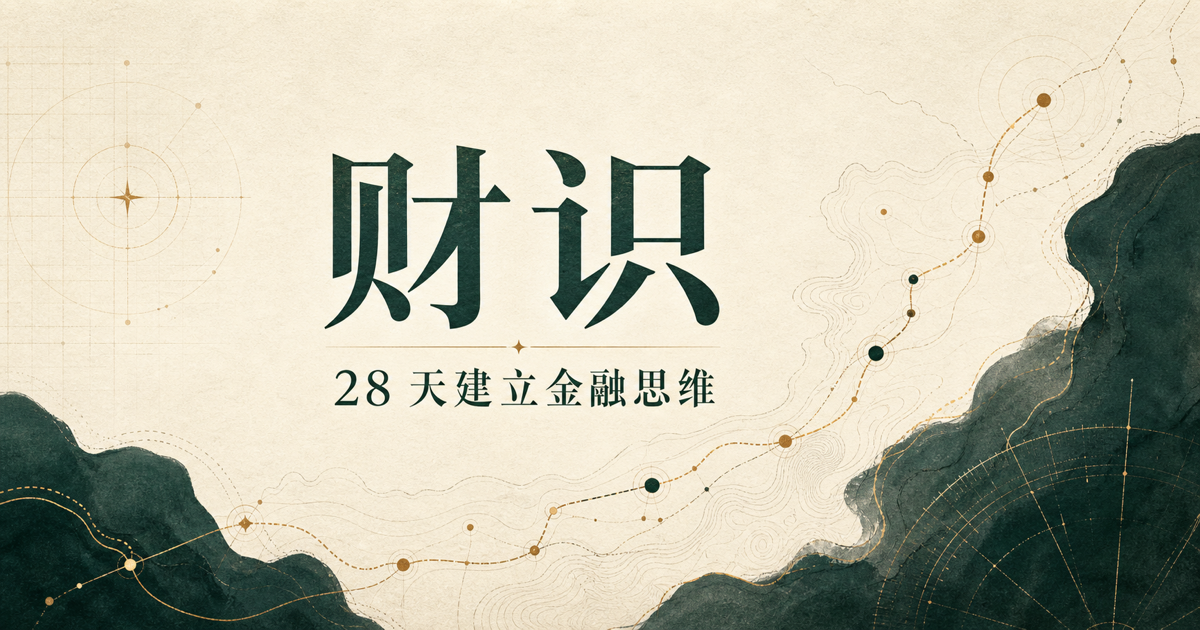
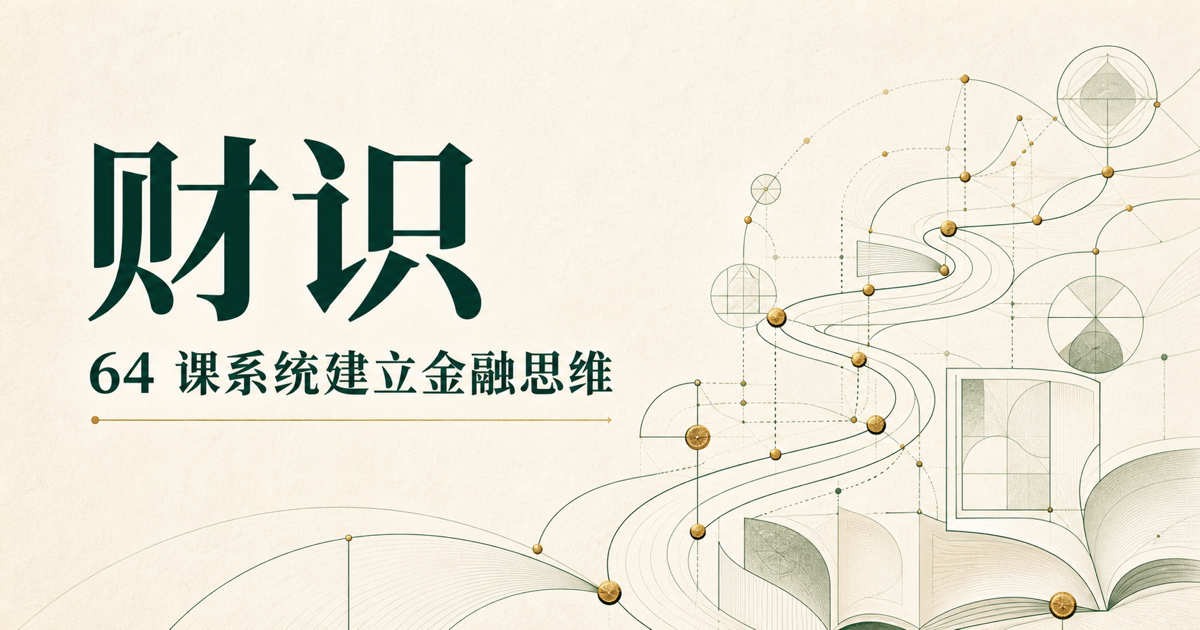
Expand finance curriculum to 64 lessons

diff --git a/app/page.tsx b/app/page.tsx
@@ -21,6 +21,10 @@ const modules = [
   { id: 2, index: '02', title: '风险与资产', summary: '看懂工具背后的收益来源', lessons: '8 课', tone: 'green' },
   { id: 3, index: '03', title: '公司与估值', summary: '从报表走向企业真实价值', lessons: '7 课', tone: 'blue' },
   { id: 4, index: '04', title: '市场与周期', summary: '把个人决策放进经济全景', lessons: '7 课', tone: 'coral' },
+  { id: 5, index: '05', title: '个人财务规划', summary: '把目标变成可执行的资金计划', lessons: '9 课', tone: 'violet' },
+  { id: 6, index: '06', title: '投资分析方法', summary: '用证据研究资产而不是追热点', lessons: '9 课', tone: 'sage' },
+  { id: 7, index: '07', title: '组合管理实战', summary: '建立能长期坚持的投资系统', lessons: '9 课', tone: 'gold' },
+  { id: 8, index: '08', title: '全球金融进阶', summary: '理解复杂工具与系统性风险', lessons: '9 课', tone: 'rose' },
 ];
 
 const lessons: Lesson[] = [
@@ -55,6 +59,46 @@ const lessons: Lesson[] = [
   { id: 26, moduleId: 4, title: '汇率与全球市场', minutes: 17, question: '本币升贬值，为什么有人欢喜有人愁？', summary: '汇率是一种货币相对另一种货币的价格，影响贸易、通胀和跨境资产回报。', key: '本币投资者海外回报 = 资产回报 + 汇率变化影响', points: ['本币贬值提高进口成本', '出口企业也受成本与定价权影响', '海外投资同时承担资产和汇率风险'], example: '海外资产上涨 5%，但投资期间外币相对本币贬值 8%，换回本币后仍可能亏损。', exercise: '持有海外资产是否天然就是分散？', answer: '不一定，还要看底层行业、地区集中度和汇率敞口。' },
   { id: 27, moduleId: 4, title: '资产配置', minutes: 20, question: '为什么组合结构比单个产品更重要？', summary: '资产配置把目标期限、风险承受能力和不同资产特征连接起来。', key: '先定目标与风险预算，再选工具', points: ['短中长期目标应分账户管理', '配置需要定期再平衡', '最佳组合是你能长期坚持的组合'], example: '市场上涨后股票占比从 60% 升到 75%，再平衡会卖出部分股票并补充低配资产。', exercise: '再平衡的主要目的是什么？', answer: '让组合回到既定风险水平，而不是预测下一个赢家。' },
   { id: 28, moduleId: 4, title: '个人投资原则', minutes: 20, question: '如何把知识变成一套不会轻易动摇的规则？', summary: '写下目标、边界和复盘机制，能减少市场情绪对长期计划的破坏。', key: '目标 → 期限 → 风险 → 配置 → 执行 → 复盘', points: ['明确不做什么和何时调整', '自动化储蓄降低决策成本', '用过程指标评估自己，不以短期涨跌论成败'], example: '个人投资政策可以写明：应急金目标、股票上限、再平衡阈值和禁止杠杆。', exercise: '完成课程后最重要的下一步是什么？', answer: '写一页个人财务与投资原则，并用小额、低成本、可持续的方式开始执行。' },
+
+  { id: 29, moduleId: 5, title: '目标与净资产', minutes: 17, question: '怎样把“想变富”变成可计算的目标？', summary: '财务规划从明确目标、时间和金额开始，再用净资产表观察当前位置。', key: '净资产 = 总资产 − 总负债', points: ['目标要同时写明金额与日期', '资产按可变现价值而非买入价记录', '净资产趋势比单月收入更能反映积累'], example: '家庭有现金 10 万、投资 20 万、房产净值 80 万和贷款 50 万，净资产为 60 万。', exercise: '总资产 120 万、总负债 75 万，净资产是多少？', answer: '45 万元。净资产不是现金余额，而是全部资产扣除全部负债后的结果。' },
+  { id: 30, moduleId: 5, title: '分账户预算', minutes: 16, question: '预算为什么常常坚持不到三个月？', summary: '有效预算不要求记住每一笔，而是提前为必要支出、目标和自由消费分配边界。', key: '收入 = 必要支出 + 目标储蓄 + 自由支出', points: ['按用途分账户降低意志力消耗', '先储蓄再消费比月底看余额更可靠', '年度大额支出应按月预提'], example: '每年 12,000 元保险费可按月预留 1,000 元，缴费月就不会打乱日常现金流。', exercise: '月收入 18,000 元，目标储蓄 25%，应先转入目标账户多少？', answer: '4,500 元。剩余 13,500 元再分配给必要与自由支出。' },
+  { id: 31, moduleId: 5, title: '信用与借款成本', minutes: 18, question: '分期月费率很低，为什么总成本仍可能很高？', summary: '比较借款不能只看月费率或每期金额，应统一换算为实际年化成本并计入全部费用。', key: '借款总成本 = 利息 + 手续费 + 保险费 + 机会成本', points: ['月费率不能直接代表年化利率', '等额分期本金逐月减少', '逾期记录会影响未来融资能力'], example: '借 12,000 元分 12 期、每月手续费 60 元，总费用 720 元，但实际年化成本高于简单的 6%。', exercise: '比较两笔贷款时，最少要统一哪些条件？', answer: '统一本金、期限、还款方式，并比较包含全部费用的实际年化成本。' },
+  { id: 32, moduleId: 5, title: '债务清偿策略', minutes: 17, question: '多笔欠款应该先还哪一笔？', summary: '高利率优先法节省总利息，小余额优先法更容易获得心理反馈；关键是停止新增高息债务。', key: '数学最优：优先偿还实际利率最高的债务', points: ['保留所有债务的最低还款', '额外现金集中攻击一笔债务', '提前还款前检查违约金和流动性'], example: '信用卡年化 18%、消费贷 10%、房贷 4%，通常先清信用卡最节省利息。', exercise: '若提前还清 12% 债务会耗尽应急金，应该怎么做？', answer: '通常先保留最低安全垫，再加速还债，避免一次意外迫使你重新借高息债。' },
+  { id: 33, moduleId: 5, title: '租房还是买房', minutes: 20, question: '买房一定比租房更划算吗？', summary: '住房决策同时是消费、融资和资产配置问题，不能只比较月租与月供。', key: '持有成本 = 利息 + 税费 + 维护 + 机会成本 − 预期增值', points: ['首付占用资金有机会成本', '交易成本使短期持有不利', '稳定性与迁移自由也是实际价值'], example: '月供 8,000 元中可能只有一部分归还本金，其余利息、物业和维护不能简单视为储蓄。', exercise: '预计两年后换城市，买房时最应警惕什么？', answer: '高额交易成本、价格波动和变现时间，短持有期可能无法摊薄这些成本。' },
+  { id: 34, moduleId: 5, title: '房贷与提前还款', minutes: 19, question: '有闲钱时，提前还房贷还是继续投资？', summary: '提前还款相当于获得接近贷款利率的确定性节省，但会减少流动性和投资机会。', key: '比较：贷款税后成本、投资预期回报、风险与流动性', points: ['等额本金与等额本息现金流不同', '不要用高风险预期收益对比确定利息', '提前还款后资金通常难以取回'], example: '贷款成本 4% 而可获得的无风险税后收益仅 2%，提前还款在纯财务上更有吸引力。', exercise: '为什么不能因为股票长期平均收益高于房贷利率，就必然选择投资？', answer: '股票回报不确定且路径波动，房贷利息是合同成本，两者风险属性不同。' },
+  { id: 35, moduleId: 5, title: '家庭保障缺口', minutes: 18, question: '保额应该由产品推荐决定吗？', summary: '保障规划应从家庭在重大事件后的资金缺口反推，而不是从可购买产品倒推。', key: '保障缺口 = 未来责任 + 债务 − 可用资产 − 既有保障', points: ['先覆盖家庭无法自行承担的损失', '收入责任变化后应重新评估保额', '保险不能替代应急金和长期储蓄'], example: '主要收入者承担 80 万房贷和子女教育责任，寿险保额应与这些缺口相关。', exercise: '孩子成年、房贷还清后，寿险需求通常如何变化？', answer: '通常下降，因为家庭未来责任和债务缺口减少，但仍要结合配偶养老等责任。' },
+  { id: 36, moduleId: 5, title: '养老目标测算', minutes: 20, question: '退休需要多少钱，为什么不能只猜一个总数？', summary: '养老规划要把退休支出、年限、通胀、收益和其他收入来源放进同一模型。', key: '退休缺口 = 预计支出现值 − 养老金等收入现值', points: ['用今天购买力估计退休支出', '区分积累期与提取期收益假设', '寿命与医疗支出要留安全边际'], example: '今天每月需要 8,000 元，若长期通胀 2.5%，20 年后同等生活约需 13,100 元。', exercise: '养老测算中为什么要使用实际收益率？', answer: '因为目标是维持购买力，实际收益率能同时考虑投资增长与通胀侵蚀。' },
+  { id: 37, moduleId: 5, title: '税务意识与年度复盘', minutes: 18, question: '税费为什么会悄悄改变长期回报？', summary: '税务规则因地区和账户而异，但每个决策都应比较税后结果，并至少每年复盘一次。', key: '税后回报 = 税前回报 − 税费 − 交易成本', points: ['先确认适用地区和账户规则', '频繁交易可能增加税费与成本', '年度复盘关注目标偏差而非短期排名'], example: '两项投资税前收益都为 6%，若一项税费更高，其复利终值会逐年落后。', exercise: '年度财务复盘最少应检查哪四项？', answer: '净资产、现金流、保障缺口和目标进度，并记录下一年度需要调整的行动。' },
+
+  { id: 38, moduleId: 6, title: '回报与基准', minutes: 18, question: '赚了 10%，为什么可能仍表现不佳？', summary: '投资结果必须与时间、风险和适当基准比较，孤立收益率无法说明决策质量。', key: '超额回报 = 组合回报 − 可比基准回报', points: ['基准应匹配资产类别与风险', '年化回报用于比较不同期限', '高回报若来自高杠杆未必更优'], example: '全球股票上涨 18% 的一年，你的同类基金收益 10%，绝对赚钱但相对基准落后。', exercise: '债券基金适合用科技股指数作基准吗？', answer: '不适合，两者风险来源不同，基准必须能代表可投资范围和风险特征。' },
+  { id: 39, moduleId: 6, title: '市值与股本结构', minutes: 17, question: '股价低的公司，真的更便宜吗？', summary: '单股价格没有可比性，必须结合总股本、市值、净债务和潜在稀释理解企业价格。', key: '市值 = 股价 × 总股本', points: ['拆股会改变股价但不创造价值', '期权与可转债可能稀释权益', '企业价值还需考虑净债务'], example: 'A 股每股 10 元有 10 亿股，市值 100 亿元；B 股每股 100 元有 1,000 万股，市值仅 10 亿元。', exercise: '公司一拆十后股价降为原来的十分之一，是否突然便宜了？', answer: '没有，总股本扩大十倍，市值和每位股东的持有比例原则上不变。' },
+  { id: 40, moduleId: 6, title: '相对估值', minutes: 19, question: '市盈率低，就一定低估吗？', summary: '估值倍数把价格与利润、收入或账面价值比较，但只有在业务、增长和风险可比时才有意义。', key: '市盈率 = 市值 ÷ 归属股东净利润', points: ['周期高点利润会让市盈率虚低', '亏损企业市盈率可能失效', '倍数差异需要经营原因解释'], example: '高负债周期公司市盈率 6 倍，稳定消费公司 20 倍，差异可能反映盈利持续性和风险。', exercise: '两家公司市盈率不同，比较前至少还要看什么？', answer: '增长、利润质量、资本结构、周期位置和会计口径。' },
+  { id: 41, moduleId: 6, title: '现金流折现', minutes: 22, question: '怎样把未来十年的经营转成今天的价值？', summary: '现金流折现法预测未来可分配现金，再按风险要求折现，是估值的基本逻辑。', key: '现值 = Σ 未来现金流 ÷（1 + 折现率）ᵗ', points: ['预测收入不等于预测自由现金流', '终值常占估值较大比例', '折现率和增长率必须做敏感性分析'], example: '同样每年 100 万元现金流，折现率从 8% 提高到 10%，今天的估值会明显下降。', exercise: 'DCF 结果为何应呈现区间而不是单点？', answer: '未来现金流、终值和折现率都不确定，小幅假设变化可能显著改变结果。' },
+  { id: 42, moduleId: 6, title: '债券定价与久期', minutes: 21, question: '怎样估算利率变化对债券的冲击？', summary: '久期近似衡量债券价格对收益率变化的敏感度，期限越长、票息越低通常久期越高。', key: '价格变化约 ≈ −久期 × 收益率变化', points: ['久期是敏感度而非单纯剩余期限', '凸性使大幅变化时线性估算有误差', '信用利差变化也会影响价格'], example: '久期 6 年的债券，收益率上升 1 个百分点，价格可能约下跌 6%。', exercise: '降息预期下，高久期债券一定更安全吗？', answer: '不一定。若利率反向上升或信用恶化，高久期债券损失也更大。' },
+  { id: 43, moduleId: 6, title: '基金尽调', minutes: 19, question: '基金排行榜为什么不是购买清单？', summary: '研究基金要看策略、底层持仓、费用、规模、跟踪质量与管理机制，而不只看近期收益。', key: '投资前先回答：持有什么、为何赚钱、何时失效、成本多少', points: ['同名基金的底层资产可能不同', '历史冠军常伴随风格集中', '规模过大可能改变策略执行'], example: '小盘策略规模快速膨胀后，可能因交易冲击和容量限制难以复制过去表现。', exercise: '指数基金之间比较，哪几个指标最关键？', answer: '跟踪标的、总费用、跟踪误差、流动性、税务与申赎机制。' },
+  { id: 44, moduleId: 6, title: '因子投资', minutes: 20, question: '价值、质量和动量因子在赚什么钱？', summary: '因子是跨许多资产可观察的共同特征，其溢价可能来自风险补偿或行为偏差。', key: '因子收益并非稳定利息，而是可能长期失效的风险溢价', points: ['价值因子偏好价格相对基本面较低的资产', '质量因子关注盈利与财务稳健', '因子拥挤会压低未来回报'], example: '价值风格可能连续多年落后市场，投资者若中途放弃就无法获得长期潜在溢价。', exercise: '同时买多只价值基金能否自动实现多因子分散？', answer: '不能，它们可能暴露于相同因子，需要检查底层持仓和风格相关性。' },
+  { id: 45, moduleId: 6, title: '图表分析的边界', minutes: 16, question: '一张价格图能告诉你未来吗？', summary: '价格和成交量能描述市场行为，但形态容易被事后解释，策略必须经过样本外与成本检验。', key: '可交易优势 = 预测能力 − 交易成本 − 过拟合损失', points: ['相关图形不等于因果关系', '规则越复杂越容易过拟合', '回测应避免未来数据和幸存者偏差'], example: '在历史数据上反复调整均线参数，总能找到漂亮结果，但新时期可能立即失效。', exercise: '判断回测可靠性至少要检查什么？', answer: '样本外表现、交易成本、数据质量、参数稳定性和不同市场阶段。' },
+  { id: 46, moduleId: 6, title: '尽调与骗局识别', minutes: 18, question: '面对“高收益、低风险”应该先查什么？', summary: '可靠投资允许验证资产、托管、费用和退出规则；模糊信息与催促转账是典型风险信号。', key: '收益越确定且越高，越需要反向验证风险来源', points: ['确认主体、牌照与资金去向', '警惕保本承诺和拉人返佣', '无法解释盈利来源时不要投入'], example: '项目声称月收益 3% 且随时退出，却拒绝提供托管证明和底层资产，这是严重红旗。', exercise: '朋友熟悉项目负责人，能否替代独立尽调？', answer: '不能。人际信任无法验证资产真实性、资金隔离、法律权利与退出能力。' },
+
+  { id: 47, moduleId: 7, title: '投资政策书', minutes: 19, question: '为什么要在市场平静时写下规则？', summary: '投资政策书把目标、限制、配置和调整条件固定下来，减少情绪最强时的临时决策。', key: '政策书 = 目标 + 期限 + 风险边界 + 配置 + 再平衡规则', points: ['不同目标需要独立资金池', '写明禁止事项比预测市场更有用', '重大生活变化才触发战略调整'], example: '政策可规定股票目标 60%、允许偏离 5%，达到边界再平衡，而不是凭新闻操作。', exercise: '市场大跌是否自动意味着要改变长期配置？', answer: '不自动。先检查目标、期限和承受能力是否发生结构性变化。' },
+  { id: 48, moduleId: 7, title: '风险能力与风险意愿', minutes: 17, question: '“我能接受波动”为什么不够？', summary: '风险能力取决于财务条件，风险意愿取决于心理感受，两者应以更保守的一方约束组合。', key: '可承担风险 = 资金期限 + 收入稳定性 + 安全垫 + 心理承受', points: ['长期资金通常有更高风险能力', '高风险意愿不能弥补短期刚性支出', '真实亏损体验比问卷更能校准意愿'], example: '年轻但两年后要买房的人，年龄虽小，首付款资金的风险能力仍然很低。', exercise: '收入不稳定且没有应急金，是否适合高仓位投资？', answer: '通常不适合，应先提高流动性安全垫，再决定长期风险资产比例。' },
+  { id: 49, moduleId: 7, title: '战略与战术配置', minutes: 19, question: '长期配置与短期观点应该如何共存？', summary: '战略配置决定长期风险框架，战术偏离只是有限、可检验的短期调整。', key: '核心组合遵守战略配置，卫星仓位承载有限观点', points: ['战略权重服务长期目标', '战术仓位必须设上限和退出规则', '频繁战术操作容易演变为追涨杀跌'], example: '90% 资金保持长期配置，10% 以内用于明确假设的战术调整，可控制整体偏离。', exercise: '战术配置失败后应怎样复盘？', answer: '检查原始假设、证据、执行成本和退出纪律，而不是只用盈亏判断。' },
+  { id: 50, moduleId: 7, title: '相关性与压力情景', minutes: 20, question: '平时分散的资产，危机时为何一起跌？', summary: '历史相关性会变化，压力测试用极端但合理的情景检查组合是否仍能支持目标。', key: '分散需要同时检验常态相关性与压力期共同暴露', points: ['流动性冲击会推高资产相关性', '同一宏观因子可能隐藏在不同产品中', '压力测试关注金额损失与行为后果'], example: '股票、房地产和高收益债都可能同时暴露于经济增长与信贷收缩。', exercise: '组合最大可能下跌 30%，最重要的下一步是什么？', answer: '换算成真实金额，并判断是否会影响支出目标或迫使自己恐慌卖出。' },
+  { id: 51, moduleId: 7, title: '再平衡规则', minutes: 18, question: '再平衡是在卖赢家、买输家吗？', summary: '再平衡的目的不是预测反转，而是把组合风险恢复到事先同意的范围。', key: '触发方式：定期检查 + 偏离阈值执行', points: ['新资金可优先补充低配资产', '税费和交易成本影响频率', '极端市场仍应遵循预设规则'], example: '目标股票 60%，阈值为 5%，当股票升至 66% 时触发再平衡。', exercise: '每周无条件恢复精确权重有什么问题？', answer: '可能产生过多交易、税费和噪声，阈值法通常更节制。' },
+  { id: 52, moduleId: 7, title: '定投与一次投入', minutes: 18, question: '分批买入一定比一次买入安全吗？', summary: '定投降低择时压力和短期后悔，一次投入让资金更早暴露于长期风险溢价。', key: '选择取决于现有资金、现金流、风险体验与执行纪律', points: ['定投不保证更高收益', '下跌市场中分批买入可降低平均成本', '长期闲置现金也有机会成本'], example: '每月工资结余适合自动定投；已有大额长期资金则需权衡一次配置与分批进入。', exercise: '定投在持续上涨市场中通常有什么代价？', answer: '后投入的资金以更高价格买入，平均收益可能低于一开始全部投入。' },
+  { id: 53, moduleId: 7, title: '行为金融', minutes: 20, question: '为什么聪明人也会重复追涨杀跌？', summary: '损失厌恶、锚定、确认偏误和从众会系统性影响决策，规则化流程能降低伤害。', key: '好流程的价值，是在情绪最强时替你做决定', points: ['亏损痛苦通常大于同额盈利快乐', '人们偏爱支持已有观点的信息', '近期表现容易被误认为长期规律'], example: '基金连续上涨后才大量买入、短期回撤后卖出，是典型的业绩追逐。', exercise: '怎样减少确认偏误？', answer: '投资前写下反方证据和失效条件，并主动寻找能推翻自己观点的信息。' },
+  { id: 54, moduleId: 7, title: '业绩归因', minutes: 20, question: '组合赚钱，到底是配置、选品还是运气？', summary: '业绩归因把回报拆为市场、资产配置、标的选择、汇率与成本，帮助改进可重复过程。', key: '组合回报 = 市场暴露 + 主动决策 + 成本 + 偶然波动', points: ['单期结果不足以证明能力', '风险调整后才能比较不同策略', '净回报必须扣除全部成本'], example: '组合上涨 12%，其中 10% 来自整体市场，主动选股贡献可能只有 2% 甚至更少。', exercise: '高回报但波动翻倍的策略，能否直接说更优秀？', answer: '不能，需要比较风险、回撤、基准、成本和是否符合原定目标。' },
+  { id: 55, moduleId: 7, title: '退休提取策略', minutes: 21, question: '积累完成后，怎样让资产支持长期生活？', summary: '提取期面对收益顺序、寿命与通胀风险，需要动态支出规则和安全资产缓冲。', key: '可持续支出取决于初始提取率、回报路径、通胀与年限', points: ['退休早期大跌伤害尤其大', '现金缓冲可减少低位卖出', '支出规则应随资产和需求调整'], example: '两个组合长期平均回报相同，若一个在退休初期连续大跌，其可持续提取能力会更弱。', exercise: '为什么不能简单把长期平均收益率当作每年可提取率？', answer: '收益每年不均匀，提取会放大早期亏损的影响，还要考虑通胀和寿命不确定性。' },
+
+  { id: 56, moduleId: 8, title: '金融系统与中介', minutes: 18, question: '储蓄如何变成企业的机器和家庭的住房？', summary: '银行、资本市场、基金和保险把资金从盈余方传递给需求方，同时承担筛选与风险转换。', key: '金融系统的核心：支付、融资、定价、风险转移', points: ['银行通过存贷款转换期限', '市场让证券价格聚合信息', '中介失灵可能放大系统性风险'], example: '银行用大量短期存款支持较长期贷款，因此必须管理流动性与挤兑风险。', exercise: '为什么银行不能把所有存款都锁进长期贷款？', answer: '存款人可能随时取款，若没有流动资产，银行会面临支付危机。' },
+  { id: 57, moduleId: 8, title: '收益率曲线', minutes: 19, question: '不同期限的利率能告诉我们什么？', summary: '收益率曲线展示同类债务在不同期限上的收益率，反映政策、通胀、增长与期限补偿预期。', key: '长端利率 ≈ 未来短端利率预期 + 期限溢价', points: ['正常曲线通常向上倾斜', '倒挂不等于衰退日期预测器', '信用债曲线还包含信用利差'], example: '短端因加息快速上升、长端反应较小，曲线可能倒挂，显示市场预期未来增长与通胀放缓。', exercise: '曲线倒挂后是否应立即清空所有风险资产？', answer: '不应机械操作。信号有时滞和误报，仍需结合目标、估值与其他数据。' },
+  { id: 58, moduleId: 8, title: '汇率风险管理', minutes: 19, question: '海外资产需要把汇率风险全部对冲吗？', summary: '汇率对冲降低货币波动，却带来成本与基差；是否对冲取决于资产性质、期限和支出货币。', key: '本币回报由资产本身回报与汇率共同决定', points: ['债券低波动，汇率可能主导总风险', '股票长期汇率影响更复杂', '未来外币支出本身可形成自然对冲'], example: '计划用美元支付留学费的人持有部分美元资产，可降低本币兑美元贬值的目标风险。', exercise: '为什么海外债券通常比海外股票更常做汇率对冲？', answer: '债券预期波动较低，未对冲汇率可能淹没债券本身的收益与风险特征。' },
+  { id: 59, moduleId: 8, title: '商品与实物资产', minutes: 18, question: '黄金、原油和房产在组合中分别解决什么问题？', summary: '实物资产的现金流、持有成本和周期驱动不同，不能笼统称为抗通胀资产。', key: '商品回报 = 现货变化 + 展期收益 + 抵押品收益 − 成本', points: ['黄金没有经营现金流', '商品期货回报不等于现货涨幅', '房地产高度依赖位置、融资与租金'], example: '油价上涨时，期货基金仍可能因远月价格结构和展期成本而表现不同。', exercise: '黄金价格能否用市盈率估值？', answer: '不能，黄金没有企业盈利，通常从实际利率、货币信心、供需和机会成本分析。' },
+  { id: 60, moduleId: 8, title: '衍生品基础', minutes: 22, question: '期货与期权为什么既能保险，也能放大风险？', summary: '衍生品价值来自底层资产，可用于套期保值、价格发现或杠杆交易。', key: '期权买方拥有权利，卖方承担履约义务', points: ['期货双方都有履约义务', '保证金不是最大损失', '期权价值受价格、时间和波动率影响'], example: '航空公司锁定部分未来燃油价格是套期保值；裸卖期权则可能承担巨大尾部损失。', exercise: '买入看涨期权的最大损失通常是多少？', answer: '已支付的期权费；但获利仍取决于到期价格能否覆盖执行价与成本。' },
+  { id: 61, moduleId: 8, title: '危机与流动性螺旋', minutes: 21, question: '为什么小问题会演变成金融危机？', summary: '高杠杆、期限错配和共同持仓会让资产下跌触发追加保证金与被迫卖出，形成自我强化。', key: '价格下跌 → 抵押品缩水 → 被迫卖出 → 价格继续下跌', points: ['偿付能力与流动性问题会相互转化', '共同模型会制造拥挤交易', '安全垫在平静时期看似低效'], example: '机构用短期融资持有长期资产，融资突然中断时只能低价出售资产，进一步压低市场价格。', exercise: '高质量资产为何也会在危机中暴跌？', answer: '持有人可能因现金需求被迫出售，短期价格由流动性而非长期价值主导。' },
+  { id: 62, moduleId: 8, title: '金融监管与投资者保护', minutes: 18, question: '监管能让投资完全安全吗？', summary: '监管通过资本要求、披露、适当性与托管规则降低风险，但无法消除价格波动和判断错误。', key: '监管降低制度风险，不承诺投资收益', points: ['牌照是必要检查而非盈利保证', '信息披露仍需投资者阅读判断', '存款保障与投资产品保护不同'], example: '受监管基金可以合法运作但仍因市场下跌亏损，合规与保本是两回事。', exercise: '产品有持牌机构销售，是否可以跳过风险说明？', answer: '不可以，仍需理解底层资产、费用、流动性、适当性和损失范围。' },
+  { id: 63, moduleId: 8, title: '金融科技与数字资产', minutes: 20, question: '技术创新会消除金融风险，还是改变风险形态？', summary: '数字支付、智能投顾和区块链提高效率，也引入平台、模型、托管、网络安全与监管风险。', key: '新技术可以重构流程，但不能取消经济约束', points: ['便捷界面可能掩盖底层复杂性', '私钥与托管决定资产控制权', '稳定机制需要验证真实储备和赎回能力'], example: '算法推荐降低操作门槛，却可能让用户在不了解风险时更快做出高频决策。', exercise: '评估数字资产平台最先检查哪些问题？', answer: '法律主体、资产托管、储备与审计、赎回机制、费用、网络安全和所在地区监管。' },
+  { id: 64, moduleId: 8, title: '综合决策案例', minutes: 28, question: '如何把 64 课知识用于一项真实财务决策？', summary: '综合决策从目标与约束出发，比较现金流、风险、机会成本和最坏情景，最后写下可复盘的行动。', key: '定义问题 → 收集证据 → 比较方案 → 压力测试 → 执行与复盘', points: ['先排除无法承受的结果', '使用区间和情景而非单点预测', '记录选择理由和未来修改条件'], example: '面对买房、提前还贷或投资三选一，先保留应急金，再比较期限、税后成本、流动性和压力情景。', exercise: '请为自己的一个真实目标写出五项决策输入。', answer: '至少包括目标金额、截止日期、现有资源、可承受损失和替代方案；再补充税费、流动性与最坏情景。' },
 ];
 
 const quiz = [
@@ -63,6 +107,9 @@ const quiz = [
   { id: 3, question: '下列哪项最能验证利润的含金量？', options: ['办公地点', '经营现金流', '公司名称'], correct: 1 },
   { id: 4, question: '有效分散最关键的是：', options: ['资产名称足够多', '底层风险驱动因素不同', '每天频繁交易'], correct: 1 },
   { id: 5, question: '资产配置的第一步应当是：', options: ['预测明天涨跌', '寻找最高收益产品', '明确目标、期限与风险'], correct: 2 },
+  { id: 6, question: '现金流折现估值中，折现率提高通常会让估值：', options: ['提高', '降低', '完全不变'], correct: 1 },
+  { id: 7, question: '组合再平衡的主要目的是什么？', options: ['恢复既定风险水平', '保证卖在最高点', '追逐近期冠军'], correct: 0 },
+  { id: 8, question: '买入看涨期权的最大损失通常是：', options: ['无限', '已支付的期权费', '底层资产全部价值'], correct: 1 },
 ];
 
 const glossary = [
@@ -72,6 +119,12 @@ const glossary = [
   ['指数基金', '按照既定规则追踪某个市场指数的基金。'], ['净值', '基金每一份额所代表的资产净价值。'],
   ['市盈率', '股价相对于每股盈利的倍数，常用于相对估值。'], ['自由现金流', '经营产生的现金扣除维持与扩张所需资本支出后的余额。'],
   ['资产配置', '按照目标和风险预算，在不同资产类别间分配资金。'], ['再平衡', '定期让偏离目标的组合重新回到既定比例。'],
+  ['净资产', '个人或家庭总资产扣除总负债后的余额。'], ['实际年化利率', '把期限、还款方式与全部费用统一后得到的真实年度借款成本。'],
+  ['久期', '衡量债券价格对利率变化敏感程度的指标。'], ['企业价值', '企业股权市值加净债务后，对完整经营资产的估值。'],
+  ['折现率', '把未来现金流换算成今天价值时使用的要求回报率。'], ['基准', '用于评价投资结果的可比较市场或策略标准。'],
+  ['因子', '能解释一组资产共同收益与风险特征的系统性变量。'], ['风险预算', '预先分配给各类资产或策略的可承受风险额度。'],
+  ['投资政策书', '记录目标、约束、配置与调整规则的长期决策文件。'], ['收益率曲线', '同类债务在不同期限上的收益率排列。'],
+  ['期权', '赋予买方在约定条件下买入或卖出资产权利的合约。'], ['系统性风险', '影响整个市场、难以仅靠增加标的数量消除的风险。'],
 ];
 
 const PROGRESS_KEY = 'caishi-progress-v1';
@@ -97,7 +150,7 @@ export default function Home() {
 
   const selected = lessons.find((lesson) => lesson.id === selectedId) ?? lessons[0];
   const moduleLessons = lessons.filter((lesson) => lesson.moduleId === activeModule);
-  const firstIncomplete = lessons.find((lesson) => !completed.includes(lesson.id)) ?? lessons[27];
+  const firstIncomplete = lessons.find((lesson) => !completed.includes(lesson.id)) ?? lessons[lessons.length - 1];
   const progress = Math.round((completed.length / lessons.length) * 100);
   const futureValue = principal * Math.pow(1 + rate / 100, years);
   const realRate = ((1 + rate / 100) / (1 + inflation / 100) - 1) * 100;
@@ -129,7 +182,7 @@ export default function Home() {
       return;
     }
     const score = quiz.reduce((sum, item) => sum + (answers[item.id] === item.correct ? 1 : 0), 0);
-    setQuizMessage(score === 5 ? '5 / 5 · 很棒，你已经抓住了核心框架。' : `${score} / 5 · 建议回看标记为错误的概念，再试一次。`);
+    setQuizMessage(score === quiz.length ? `${quiz.length} / ${quiz.length} · 很棒，你已经抓住了完整框架。` : `${score} / ${quiz.length} · 建议回看标记为错误的概念，再试一次。`);
   }
 
   return (
@@ -137,21 +190,21 @@ export default function Home() {
       <header className="site-header">
         <a className="brand" href="#top" aria-label="财识首页"><span className="brand-mark">财</span><span><strong>财识</strong><small>FINANCE ATLAS</small></span></a>
         <nav aria-label="主导航"><a href="#path">学习路径</a><a href="#course">课程</a><a href="#tools">计算工具</a><a href="#glossary">知识词典</a></nav>
-        <div className="daily-goal"><span /> 已完成 {completed.length} / 28 课</div>
+        <div className="daily-goal"><span /> 已完成 {completed.length} / {lessons.length} 课</div>
       </header>
 
       <section className="hero" id="top">
         <div className="hero-copy">
-          <p className="eyebrow"><span>零基础课程</span> · 28 天建立金融思维</p>
+          <p className="eyebrow"><span>从零到进阶</span> · 64 课系统建立金融思维</p>
           <h1>把金融，变成一张<br /><em>能走完的地图。</em></h1>
-          <p className="hero-lead">从一块钱的时间价值，到读懂市场的起伏。每天一个概念、一个案例、一道练习，循序渐进，不追热点。</p>
+          <p className="hero-lead">从一块钱的时间价值，到财务规划、投资分析、组合管理与全球市场。每课一个概念、一个案例、一道练习，循序渐进，不追热点。</p>
           <div className="hero-actions"><button className="primary-button" onClick={() => openLesson(firstIncomplete)}>继续第 {firstIncomplete.id} 课 <span>→</span></button><a className="text-button" href="#path">查看完整路径</a></div>
-          <div className="trust-row" aria-label="课程特色"><span>✓ 无需金融基础</span><span>✓ 每课约 15 分钟</span><span>✓ 不荐股，不制造焦虑</span></div>
+          <div className="trust-row" aria-label="课程特色"><span>✓ 8 大模块</span><span>✓ 约 18 小时内容</span><span>✓ 不荐股，不制造焦虑</span></div>
         </div>
 
         <aside className="today-card">
           <div className="card-topline"><span>YOUR PROGRESS</span><span className="difficulty">{progress}%</span></div>
-          <div className="progress-orbit" style={{ background: `conic-gradient(var(--copper) ${progress * 3.6}deg, #e4ded1 0deg)` }} aria-label={`课程总进度 ${progress}%`}><div className="orbit-inner"><strong>{completed.length}</strong><span>/ 28</span></div></div>
+          <div className="progress-orbit" style={{ background: `conic-gradient(var(--copper) ${progress * 3.6}deg, #e4ded1 0deg)` }} aria-label={`课程总进度 ${progress}%`}><div className="orbit-inner"><strong>{completed.length}</strong><span>/ {lessons.length}</span></div></div>
           <p className="today-label">下一课 · {firstIncomplete.minutes} 分钟</p>
           <h2>{firstIncomplete.question}</h2>
           <p>{firstIncomplete.summary}</p>
@@ -160,7 +213,7 @@ export default function Home() {
       </section>
 
       <section className="path-section" id="path">
-        <div className="section-heading"><div><p className="eyebrow">LEARNING PATH</p><h2>四站式金融知识地图</h2></div><p>先掌握规律，再认识工具；先学会判断风险，再讨论收益。</p></div>
+        <div className="section-heading"><div><p className="eyebrow">LEARNING PATH</p><h2>八站式金融知识地图</h2></div><p>基础 28 课建立框架，进阶 36 课把知识用于规划、研究与真实决策。</p></div>
         <div className="module-grid">
           {modules.map((module) => {
             const count = lessons.filter((lesson) => lesson.moduleId === module.id && completed.includes(lesson.id)).length;
@@ -203,7 +256,7 @@ export default function Home() {
       </section>
 
       <section className="quiz-section" id="quiz">
-        <div className="quiz-intro"><p className="eyebrow">KNOWLEDGE CHECK</p><h2>用 5 道题，检查你的金融直觉</h2><p>不是考试。答错的题，正好告诉你应该回看哪里。</p></div>
+        <div className="quiz-intro"><p className="eyebrow">KNOWLEDGE CHECK</p><h2>用 8 道题，检查你的金融直觉</h2><p>覆盖八个模块。答错的题，正好告诉你应该回看哪里。</p></div>
         <div className="quiz-form">
           {quiz.map((item, index) => <fieldset key={item.id}><legend><span>0{index + 1}</span>{item.question}</legend><div>{item.options.map((option, optionIndex) => <label key={option}><input type="radio" name={`q-${item.id}`} checked={answers[item.id] === optionIndex} onChange={() => { setAnswers((current) => ({ ...current, [item.id]: optionIndex })); setQuizMessage(''); }} /><span>{option}</span></label>)}</div>{quizMessage && answers[item.id] !== undefined && <small className={answers[item.id] === item.correct ? 'answer-correct' : 'answer-wrong'}>{answers[item.id] === item.correct ? '回答正确' : `正确答案：${item.options[item.correct]}`}</small>}</fieldset>)}
           <div className="quiz-submit"><button onClick={submitQuiz}>提交答案</button><strong>{quizMessage}</strong></div>

diff --git a/app/globals.css b/app/globals.css
@@ -67,10 +67,13 @@ nav a:first-child::after { content: ''; position: absolute; left: 50%; bottom: -
 .module-grid { display: grid; grid-template-columns: repeat(4, 1fr); border-top: 1px solid rgba(255,255,255,.18); border-bottom: 1px solid rgba(255,255,255,.18); }
 .module-card { min-height: 270px; padding: 22px 24px; border-right: 1px solid rgba(255,255,255,.18); position: relative; }
 .module-card:last-child { border-right: 0; }
+.module-card:nth-child(4n) { border-right: 0; }
+.module-card:nth-child(-n+4) { border-bottom: 1px solid rgba(255,255,255,.18); }
 .module-index { color: #96aaa5; font: 11px Georgia, serif; letter-spacing: .12em; }
 .module-icon { width: 46px; height: 46px; margin: 34px 0 26px; display: grid; place-items: center; border: 1px solid currentColor; border-radius: 50%; }
 .module-icon span { font: italic 18px Georgia, serif; }
 .module-card.amber { color: #e6bf73; } .module-card.green { color: #92bdab; } .module-card.blue { color: #8fb1c5; } .module-card.coral { color: #d79978; }
+.module-card.violet { color: #c4acd6; } .module-card.sage { color: #a9bd8f; } .module-card.gold { color: #d5a85f; } .module-card.rose { color: #d5a0a6; }
 .module-card h3 { margin: 0; color: #fffaf0; font: 500 21px "Songti SC", serif; }
 .module-card p { margin: 11px 0 28px; color: #aeb9b6; font-size: 12px; }
 .module-footer { display: flex; justify-content: space-between; color: #aeb9b6; font-size: 11px; }
@@ -93,8 +96,9 @@ footer p { margin: 0; }
   .today-card { max-width: 440px; margin: 0 auto; }
   .section-heading { align-items: flex-start; gap: 18px; flex-direction: column; }
   .module-grid { grid-template-columns: 1fr 1fr; }
-  .module-card:nth-child(2) { border-right: 0; }
-  .module-card:nth-child(-n+2) { border-bottom: 1px solid rgba(255,255,255,.18); }
+  .module-card { border-right: 1px solid rgba(255,255,255,.18); border-bottom: 1px solid rgba(255,255,255,.18); }
+  .module-card:nth-child(even) { border-right: 0; }
+  .module-card:nth-last-child(-n+2) { border-bottom: 0; }
 }
 
 @media (max-width: 520px) {
@@ -103,6 +107,7 @@ footer p { margin: 0; }
   .today-card { padding: 26px 24px; }
   .module-grid { grid-template-columns: 1fr; }
   .module-card { min-height: 235px; border-right: 0; border-bottom: 1px solid rgba(255,255,255,.18); }
+  .module-card:not(:last-child) { border-bottom: 1px solid rgba(255,255,255,.18); }
   .module-card:last-child { border-bottom: 0; }
   footer { flex-direction: column; gap: 8px; }
 }

diff --git a/app/layout.tsx b/app/layout.tsx
@@ -4,19 +4,19 @@ import './globals.css';
 export const metadata: Metadata = {
   metadataBase: new URL(process.env.SITE_URL ?? 'http://localhost:3000'),
   title: '财识 · 零基础金融学习地图',
-  description: '28 天系统建立金融思维：从复利、通胀与风险，到资产、公司与市场。',
+  description: '64 课系统建立金融思维：从金钱基础到个人财务、投资分析、组合管理与全球金融。',
   openGraph: {
     title: '财识 · 零基础金融学习地图',
-    description: '28 天建立金融思维，每天一个概念、一个案例、一道练习。',
+    description: '64 课、8 大模块，从零到进阶系统建立金融思维。',
     type: 'website',
     locale: 'zh_CN',
     siteName: '财识',
-    images: [{ url: '/og.png', width: 1200, height: 630, alt: '财识 · 28 天建立金融思维' }],
+    images: [{ url: '/og.png', width: 1200, height: 630, alt: '财识 · 64 课系统建立金融思维' }],
   },
   twitter: {
     card: 'summary_large_image',
     title: '财识 · 零基础金融学习地图',
-    description: '28 天建立金融思维，每天一个概念、一个案例、一道练习。',
+    description: '64 课、8 大模块，从零到进阶系统建立金融思维。',
     images: ['/og.png'],
   },
 };
